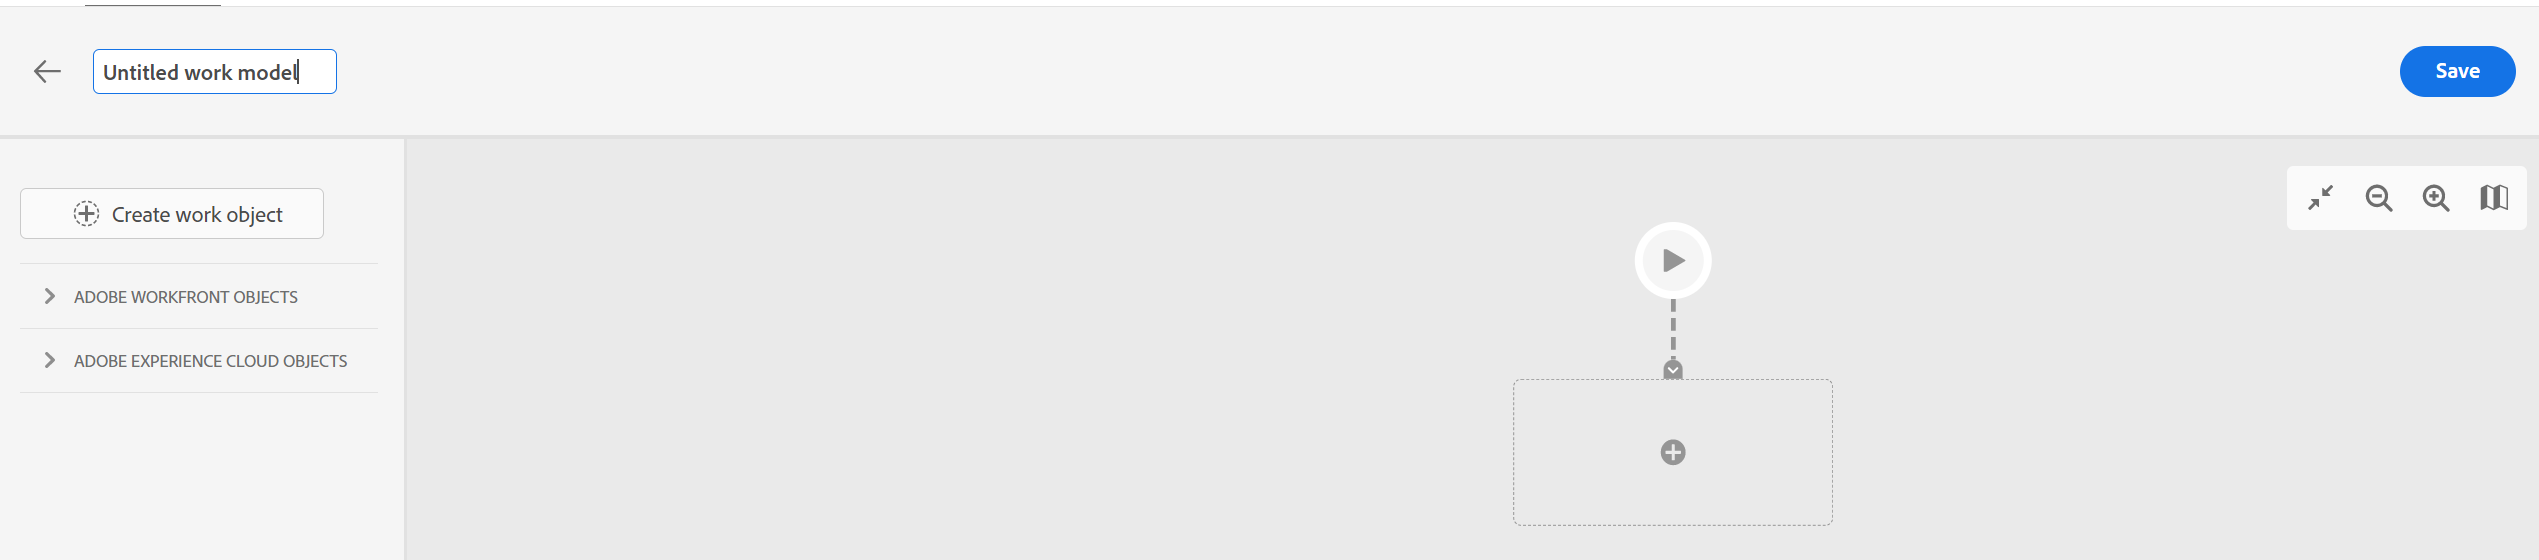
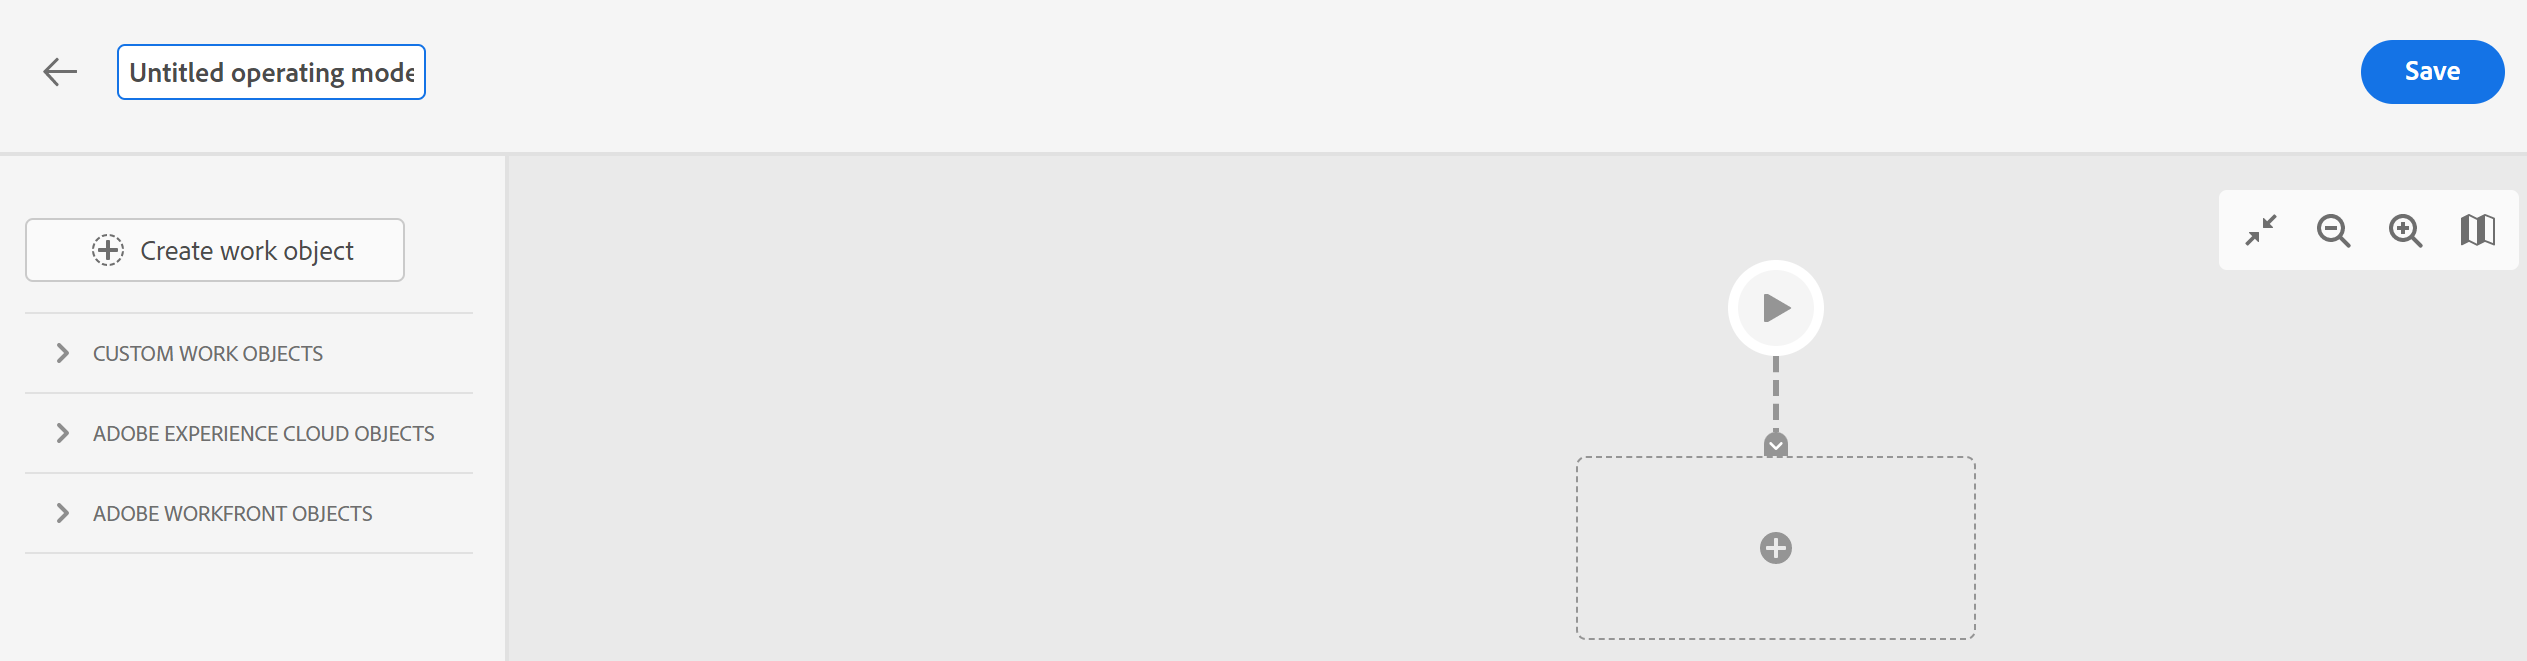
commit-aw-27-sept

diff --git a/help/quicksilver/resource-mgmt/resource-mgmt-overview/deprecate-resource-scheduling.md b/help/quicksilver/resource-mgmt/resource-mgmt-overview/deprecate-resource-scheduling.md
@@ -58,7 +58,7 @@ The following is a tentative timeline for the deprecation process of Resource Sc
 
 * [2020.4 release (November 2020)](#2020-4-release-november-2020) 
 * [2021.4 release (October 2021)](#2021-4-release-october-2021) 
-* [2022.4 release (October 2022) (tentative) ](#20224-release-october-2022-tentative)
+* [2022.4 release (October 2022)](#20224-release-october-2022-tentative)
 
 ### 2020.4 release (November 2020) {#2020-4-release-november-2020}
 
@@ -71,10 +71,10 @@ The following is a tentative timeline for the deprecation process of Resource Sc
 * Workload Balancer is set as default for any first-time user of Workfront
 * Enhanced filters that can be shared and include additional fields
 
-### 2022.4 release (October 2022) (tentative)
+### 2022.4 release (October 2022) 
 
 * No defects will be prioritized for a fix during the 2022.4 release
-* All Scheduling areas are removed from Workfront
+* All Scheduling areas are removed from Workfront after the 2022.4 release 
 * The Workload Balancer is the only resource scheduling tool available in Workfront
 
 ## Feature availability {#feature-availability}
@@ -170,20 +170,6 @@ In addition to existing features, the Workload Balancer has or will have new fun
    <td>&nbsp;</td> 
    <td>&nbsp;</td> 
   </tr> 
-  <tr> 
-   <td><span>Assign and unassign tasks and issues by dragging and dropping*</span> </td> 
-   <td>✓</td> 
-   <td><span>✓</span> </td> 
-   <td>&nbsp;</td> 
-   <td>&nbsp;</td> 
-  </tr> 
-  <tr> 
-   <td>Automatically assign tasks and issues</td> 
-   <td>✓</td> 
-   <td>&nbsp;</td> 
-   <td>&nbsp;</td> 
-   <td>✓</td> 
-  </tr> 
   <tr data-mc-conditions=""> 
    <td><span>Quickly assign users based on roles*</span> </td> 
    <td>✓</td> 
@@ -232,6 +218,13 @@ In addition to existing features, the Workload Balancer has or will have new fun
    <td><span class="preview">✓</span></td> 
    <td></td> 
    <td></td> 
+  </tr> 
+  <tr> 
+   <td><span>Assign and unassign tasks and issues by dragging and dropping*</span> </td> 
+   <td>✓</td> 
+   <td><span>✓</span> </td> 
+   <td>&nbsp;</td> 
+   <td>&nbsp;</td> 
   </tr> 
   <tr> 
    <td>Visible to all Plan users, without being designated a Resource Manager on the project.</td> 
@@ -338,7 +331,7 @@ In addition to existing features, the Workload Balancer has or will have new fun
    <td><span>✓</span> </td> 
    <td>&nbsp;</td> 
    <td>&nbsp;</td> 
-
+    
    <tr> 
    <td><span>Add users to the project team</span> </td> 
    <td>✓</td> 
@@ -347,7 +340,14 @@ In addition to existing features, the Workload Balancer has or will have new fun
    <td>&nbsp;</td> 
 
   </tr>
-  
+   <tr> 
+   <td>Automatically assign tasks and issues</td> 
+   <td>✓</td> 
+   <td>&nbsp;</td> 
+   <td>&nbsp;</td> 
+   <td>✓</td> 
+  </tr> 
+
  </tbody> 
 </table>
 

diff --git a/help/quicksilver/operating-models/create-work-objects-records-operating-models-alpha-document.md b/help/quicksilver/operating-models/create-work-objects-records-operating-models-alpha-document.md
@@ -79,7 +79,7 @@ After defining your work objects and designing your operational model's structur
     
     The Operating models page displays.  
 
-1. Click **Create operating model** in the upper-right corner to create a structure for your work.
+1. Click **Create an operating model** in the upper-right corner to create a structure for your work.
 
 1. Update the name of the operating model. 
 
@@ -133,5 +133,8 @@ After defining your work objects and designing your operational model's structur
 1. Click **Create** in the upper-right corner.
 
     The work record is created and is visible to all users with a Plan license.  
+1. (Optional) Click **Sub-records** in the left panel, then click **Create sub-record** in the upper-right corner. 
+
+1. Select from the types of sub-records available, specify a **Name** for the sub-record, then click **Create**. The sub-records of a work record are children objects to the work records. You can only select the types of sub-records that are specified in the operating model used to create the work record. 
 
  -->
